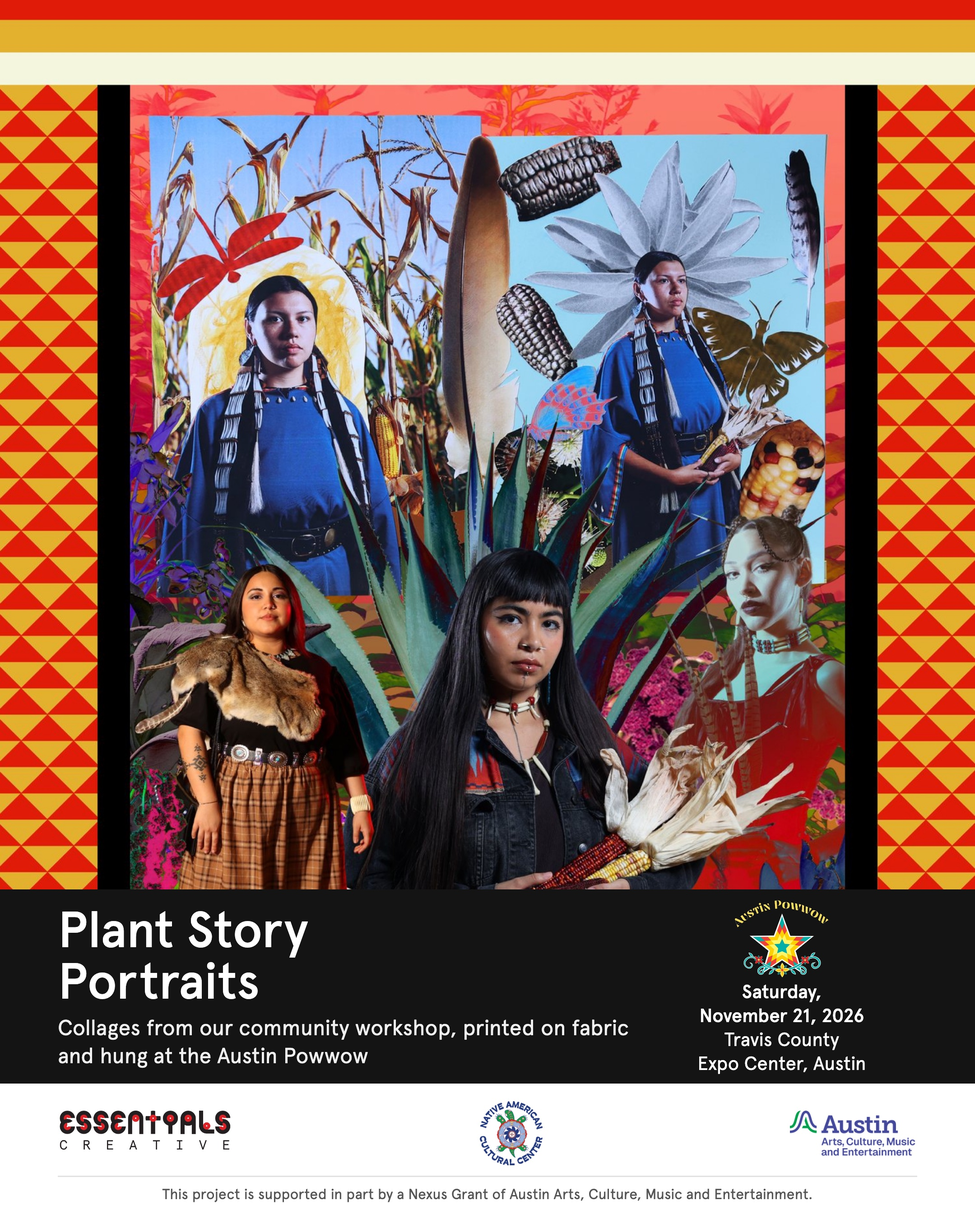
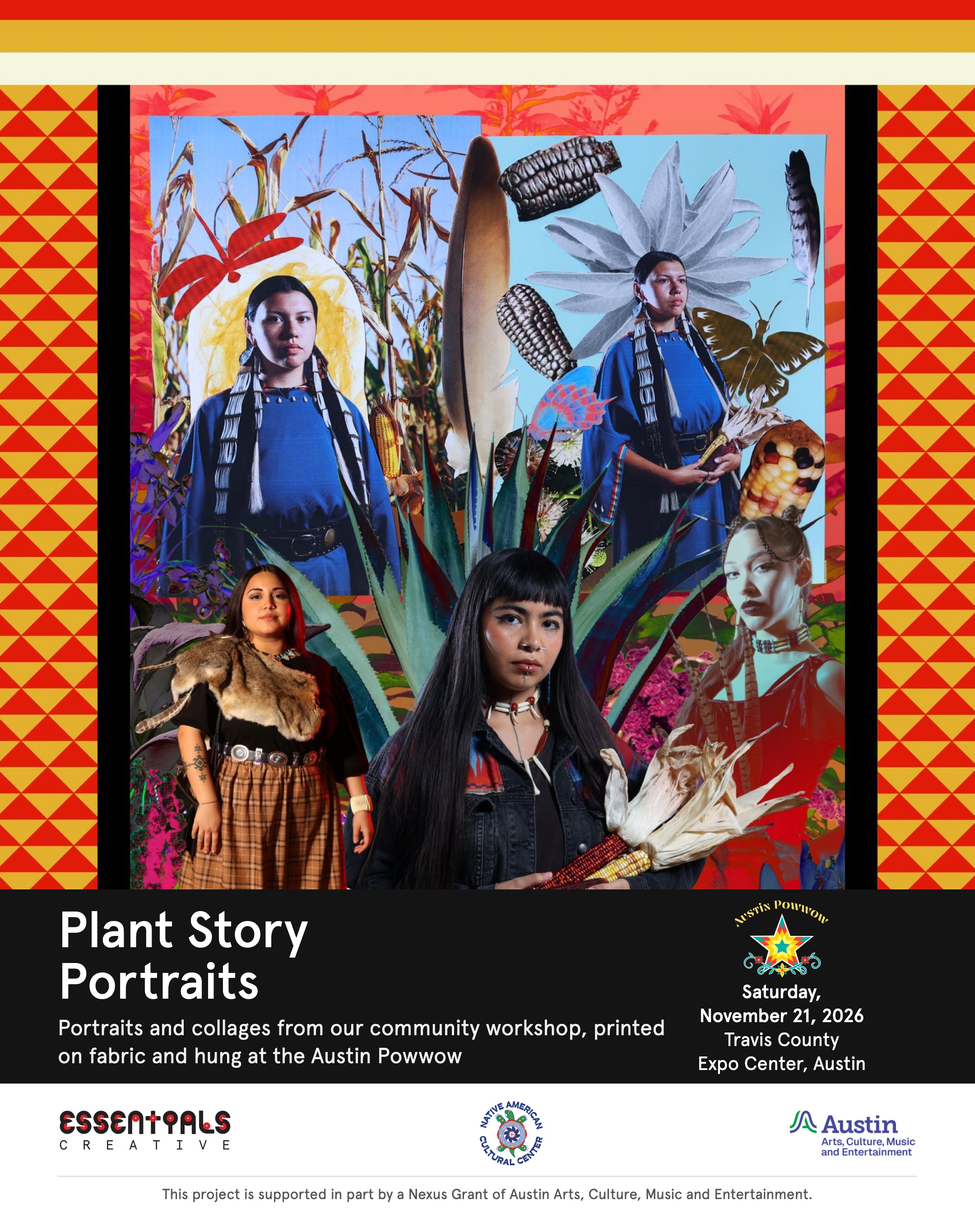
Plant Story Portraits: name it a portrait and collage workshop
Eyebrow, page and share titles, and the meta description now say portrait
and collage workshop. Flier subtitle and alt text updated to match, with
the re-exported web and print flier.

Changed region(s): [[0.062, 0.84, 0.6824, 0.8711]]

diff --git a/plant-story-portraits.html b/plant-story-portraits.html
@@ -3,20 +3,20 @@
 <head>
     <meta charset="UTF-8">
     <meta name="viewport" content="width=device-width, initial-scale=1.0, minimum-scale=1.0, maximum-scale=5.0, viewport-fit=cover">
-    <title>Plant Story Portraits: Workshop Recap - Essentials Creative</title>
-    <meta name="description" content="A recap of the Plant Story Portraits collage workshop at the Native American Cultural Center: portraits, behind the scenes, finished collages, and the tapestry designs for the Austin Powwow.">
+    <title>Plant Story Portraits: Portrait and Collage Workshop Recap - Essentials Creative</title>
+    <meta name="description" content="Portraits, collages, and behind-the-scenes from our portrait and collage workshop, plus the tapestries printed on fabric for the Austin Powwow, Nov. 21.">
     
     <link rel="canonical" href="https://essentialscreative.com/plant-story-portraits.html"/>
 
 <meta property="og:type" content="website">
 <meta property="og:url" content="https://essentialscreative.com/plant-story-portraits.html">
-<meta property="og:title" content="Plant Story Portraits: Workshop Recap - Essentials Creative">
-<meta property="og:description" content="A recap of the Plant Story Portraits collage workshop at the Native American Cultural Center: portraits, behind the scenes, finished collages, and the tapestry designs for the Austin Powwow.">
+<meta property="og:title" content="Plant Story Portraits: Portrait and Collage Workshop Recap - Essentials Creative">
+<meta property="og:description" content="Portraits, collages, and behind-the-scenes from our portrait and collage workshop, plus the tapestries printed on fabric for the Austin Powwow, Nov. 21.">
 <meta property="og:image" content="https://essentialscreative.com/assets/images/plant-story/tapestry-hero.jpg">
 <meta name="twitter:card" content="summary_large_image">
 <meta name="twitter:image" content="https://essentialscreative.com/assets/images/plant-story/tapestry-hero.jpg">
-<meta name="twitter:title" content="Plant Story Portraits: Workshop Recap - Essentials Creative">
-<meta name="twitter:description" content="A recap of the Plant Story Portraits collage workshop at the Native American Cultural Center: portraits, behind the scenes, finished collages, and the tapestry designs for the Austin Powwow.">
+<meta name="twitter:title" content="Plant Story Portraits: Portrait and Collage Workshop Recap - Essentials Creative">
+<meta name="twitter:description" content="Portraits, collages, and behind-the-scenes from our portrait and collage workshop, plus the tapestries printed on fabric for the Austin Powwow, Nov. 21.">
 <!-- Favicon -->
     <link href="assets/images/favicon.png" rel="icon" sizes="32x32" type="image/png">
     <link rel="apple-touch-icon" sizes="180x180" href="assets/images/apple-touch-icon.png">
@@ -236,7 +236,7 @@
     <img src="assets/images/plant-story/tapestry-hero.jpg" alt="Three Plant Story Portraits tapestry designs side by side: collaged portraits and native plants inside patterned borders." width="2400" height="1067" fetchpriority="high" style="display:block;width:100%;height:auto;margin-top:0">
     <section class="psp-hero">
         <div class="container">
-            <p class="psp-eyebrow">Workshop recap · September 5, 2026</p>
+            <p class="psp-eyebrow">Portrait and collage workshop recap · September 5, 2026</p>
             <h1>Plant Story Portraits</h1>
             <p class="psp-lede">How do we see ourselves in the plants around us? People gathered at the Native American Cultural Center to make portraits and collages with that question. Here is what we made together.</p>
             <dl class="psp-facts">
@@ -305,7 +305,7 @@
     <section class="psp-section" id="flier" aria-labelledby="flier-h" style="padding-bottom:0">
         <div class="container" style="text-align:center">
             <h2 id="flier-h" style="position:absolute;width:1px;height:1px;overflow:hidden;clip:rect(0,0,0,0)">Tapestries for the Powwow flier</h2>
-            <img src="assets/images/plant-story/powwow-tapestry-flier.jpg" alt="Flier: Plant Story Portraits. Collages from our community workshop, printed on fabric and hung at the Austin Powwow. Saturday, November 21, 2026, Travis County Expo Center, Austin." width="1280" height="1600" loading="lazy" style="width:100%;max-width:560px;height:auto;display:block;margin:0 auto 1.2rem;box-shadow:0 2px 18px rgba(0,0,0,.18)">
+            <img src="assets/images/plant-story/powwow-tapestry-flier.jpg" alt="Flier: Plant Story Portraits. Portraits and collages from our community workshop, printed on fabric and hung at the Austin Powwow. Saturday, November 21, 2026, Travis County Expo Center, Austin." width="1280" height="1600" loading="lazy" style="width:100%;max-width:560px;height:auto;display:block;margin:0 auto 1.2rem;box-shadow:0 2px 18px rgba(0,0,0,.18)">
             <p style="display:flex;justify-content:center;margin:0;max-width:none;width:100%"><a href="assets/images/plant-story/powwow-tapestry-flier-hires.jpg" download style="color:inherit;text-decoration:underline">Download the flier to print and share</a></p>
         </div>
     </section>
